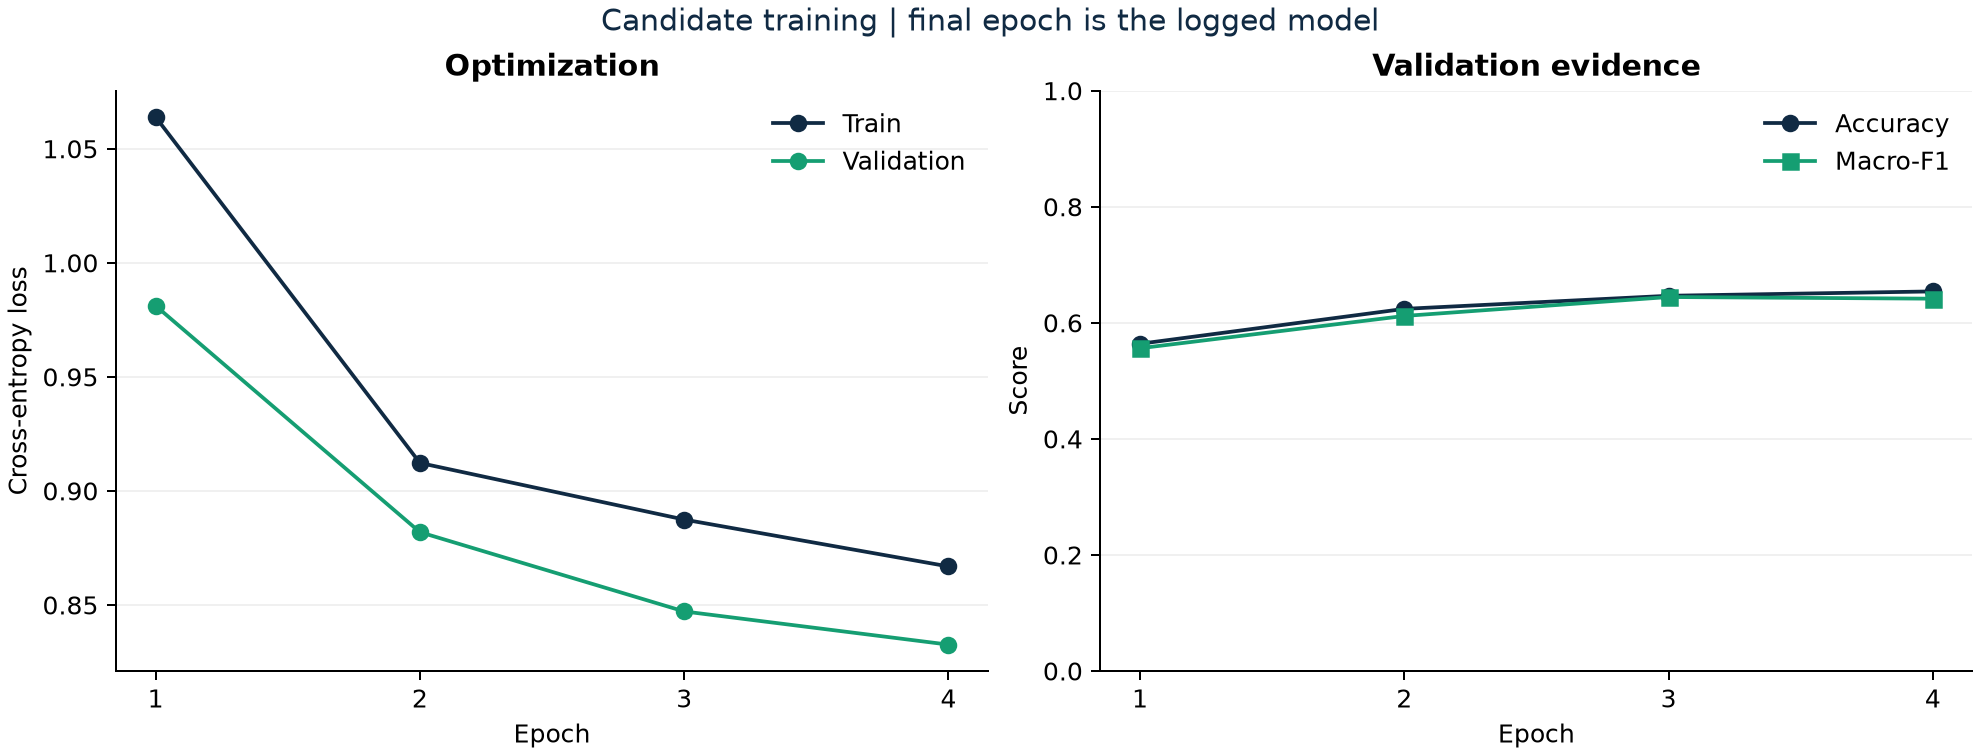
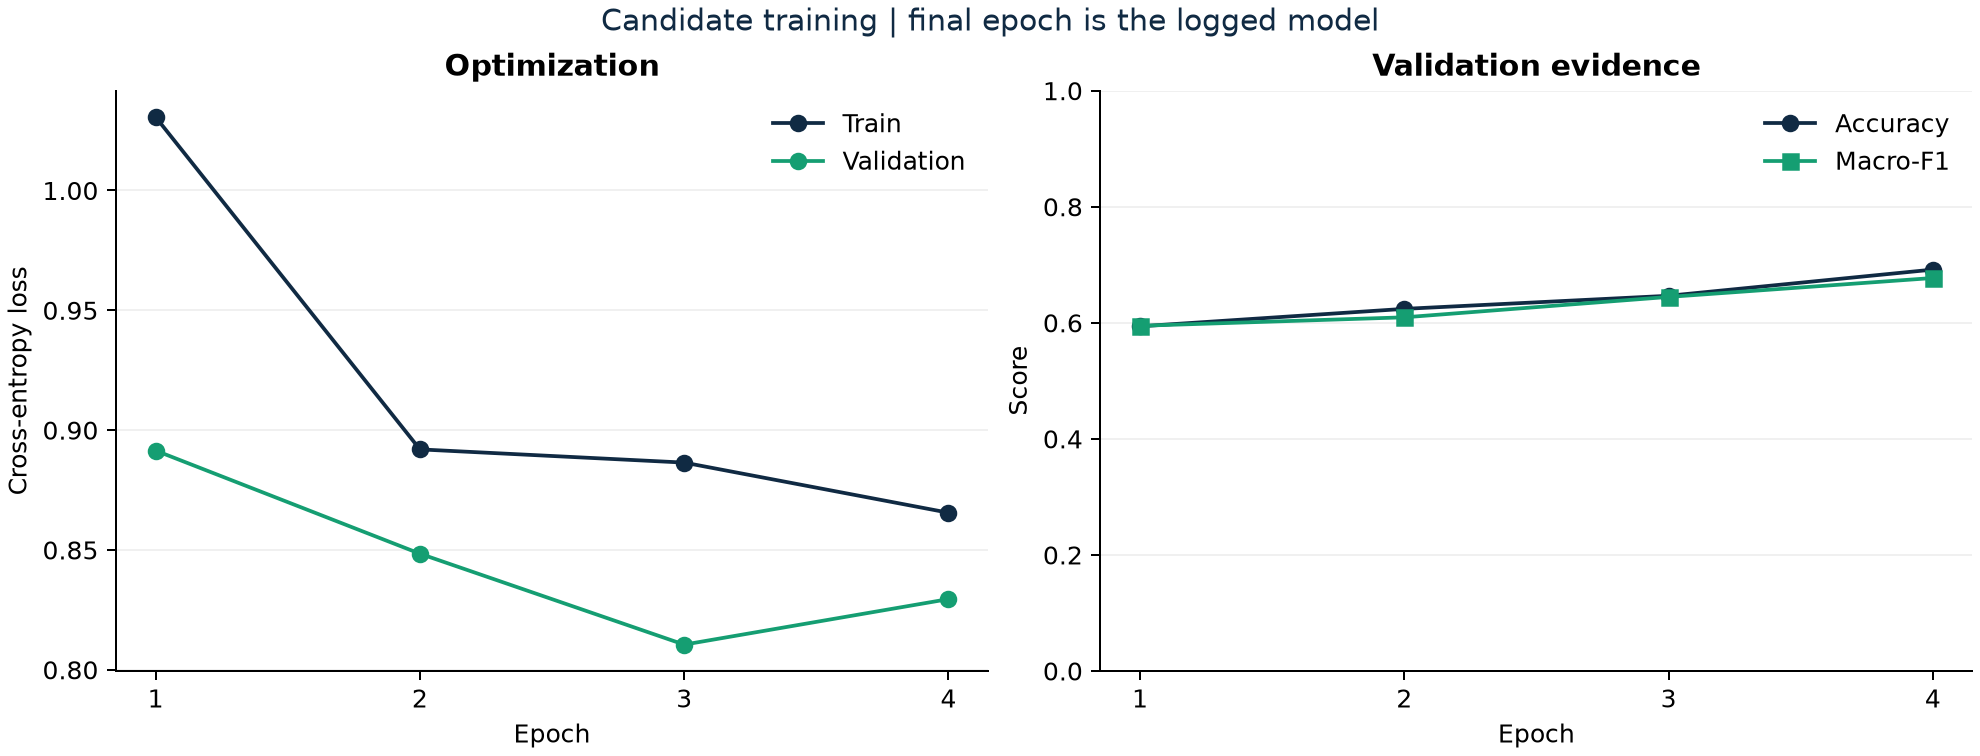
Record Run B and the recomputation checks

diff --git a/LAB_REPORT.md b/LAB_REPORT.md
@@ -156,17 +156,18 @@ Result of the full `uv run --locked pytest -q` run:
 | -------------------------------------- | -------- | ------- | ------ | -------- | ----------------------------------- |
 | 1. Rerun with no change                | REUSED   | REUSED  | REUSED | NOT RUN  | `Data and pipelines are up to date` |
 | 2. Comment added to `validate_data.py` | RERUN    | REUSED  | REUSED | NOT RUN  | `Running stage 'validate'`          |
-| 3. Learning rate set to 0.0003 (Run B) | -        | -       | -      | NOT RUN  | -                                   |
+| 3. Learning rate set to 0.0003 (Run B) | REUSED   | REUSED  | RERUN  | NOT RUN  | `Running stage 'train'`             |
 
-- Run B MLflow Run ID: -
-- Differences between predictions and results, and why: -
+- Run B MLflow Run ID: 0d5f0c5d68674d5d803d1016c087b26f
+- Differences between predictions and results: The actual behavior matches the predictions in the first table
 
 ### Engineering Checkpoint 5
 
 **Explanation of at least two rows (one setting change, one file edit):**
 
-- Setting change row: input that changes per stage: -
-- File edit row: why the inputs stay the same (or change) per stage: -
+- Setting change row: input that changes per stage:
+  `validate` and `prepare` do not track `train.learning_rate` in `dvc.yaml` under `params` so their hashes remain unchanged. `train` explicitly declares `train.learning_rate` under `params` which triggers re-execution
+- File edit row: why the inputs stay the same (or change) per stage: `validate` lists `src/validate_data.py` under `deps` so modifying the file forces validate to rerun. However, because the comment does not change the generated `reports/data_quality.json`, its content hash remains identical.
 
 ---
 
